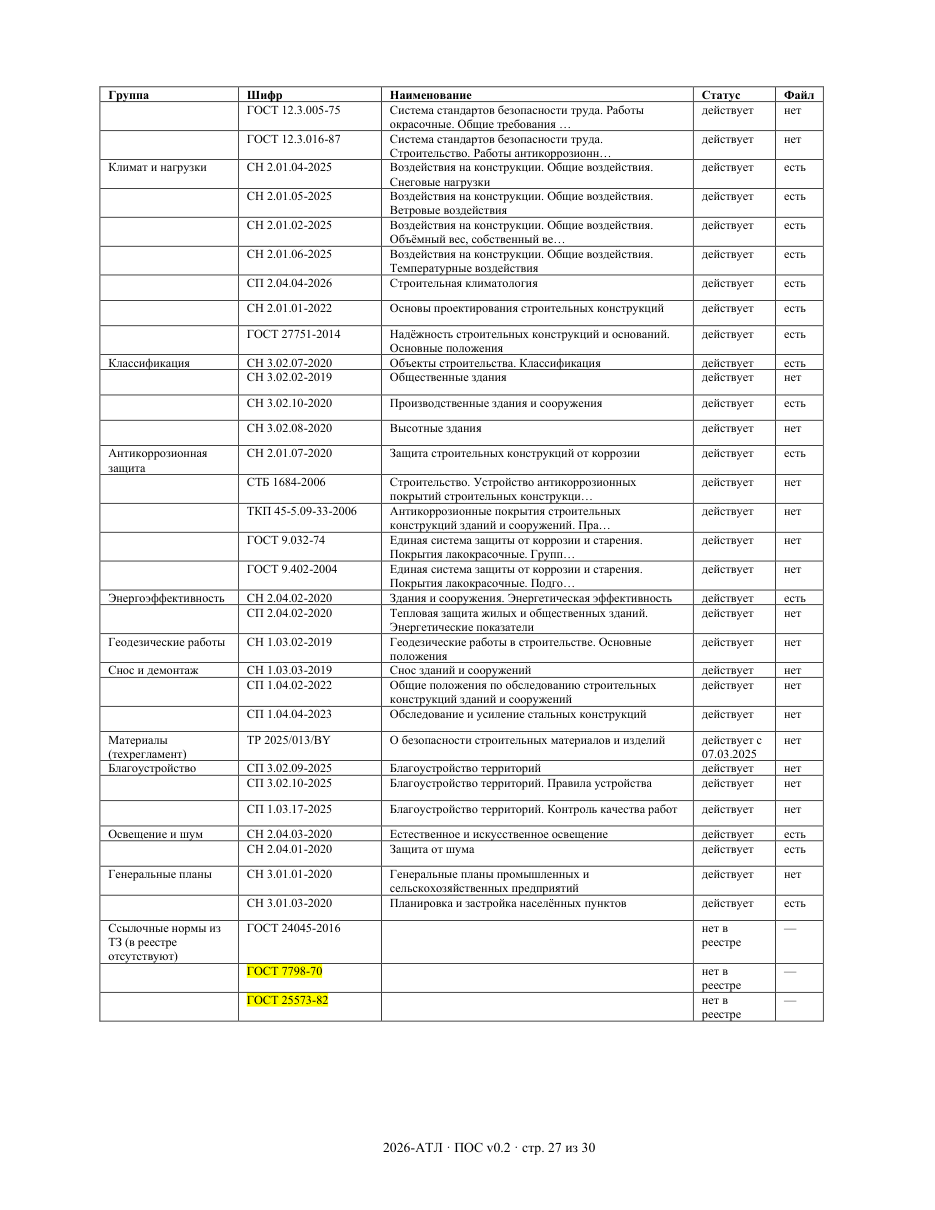
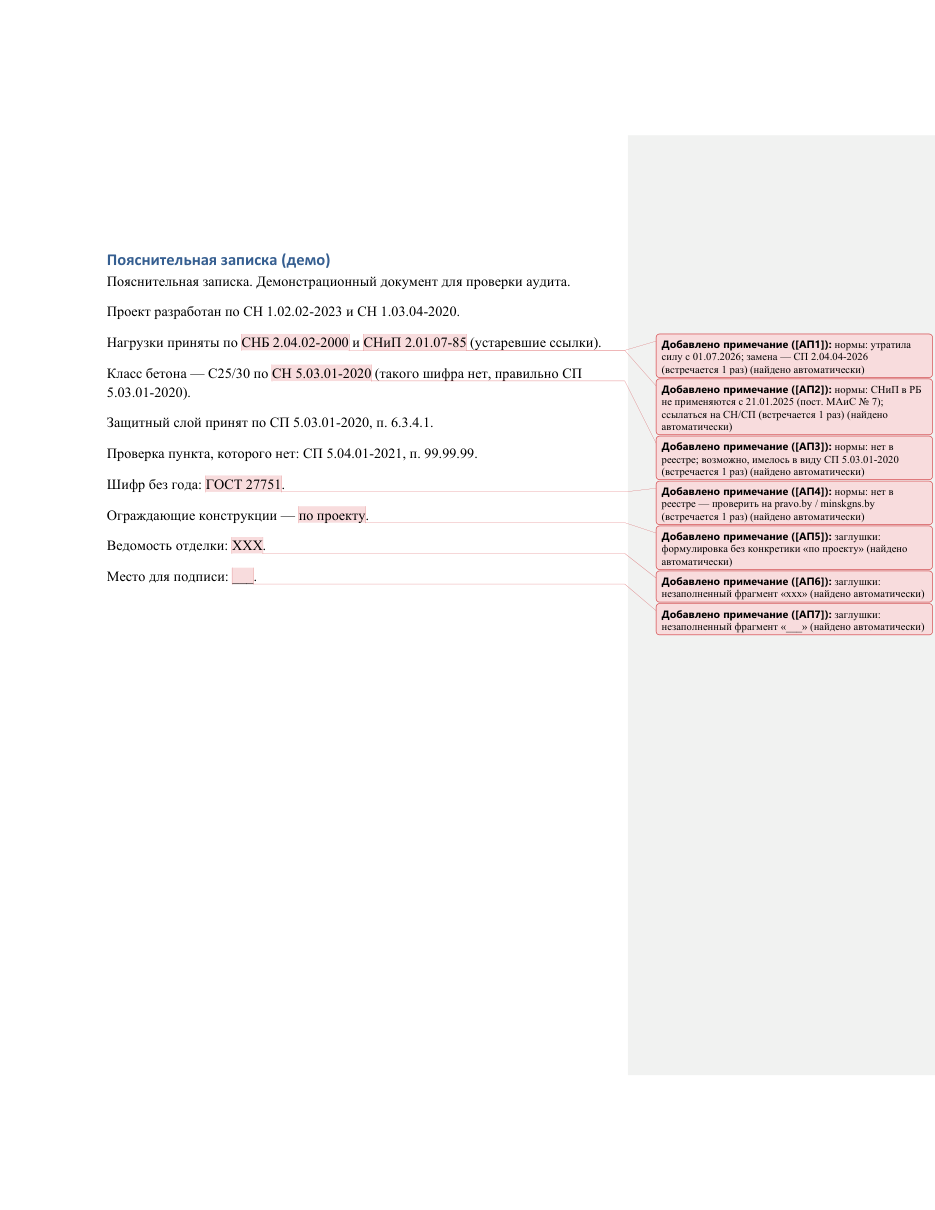
fix(landing): снимки отчёта и разметки из текущего демо-прогона
- report-page.png / report-page-2.png: оценка 7,0, счётчики 2 / 5 / 1,
  путь C:\Users\Public\Projects\ATLAS-TZ — без личного каталога
- marked-page.png: демо-ПЗ с 7 примечаниями Word (ExportAsFixedFormat, markup)
  вместо страницы реального проекта 2026-АТЛ
- tools/render-report-png.py: прогон → PDF → PNG; размеченный DOCX → PDF → PNG
- landing: размеры кадров 935 × 1210 в разметке; docs/TOOLS.md — как пересобрать

Closes #35

Changed region(s): [[0.093, 0.0612, 1.0, 0.8562], [0.2481, 0.795, 0.3722, 0.8562], [0.093, 0.0612, 0.1861, 0.0917]]

diff --git a/app/ui/landing.html b/app/ui/landing.html
@@ -142,7 +142,7 @@
         </ul>
       </div>
       <div class="span-6 start-7">
-        <div class="panel"><img src="assets/img/report-page-2.png" width="950" height="1250"
+        <div class="panel"><img src="assets/img/report-page-2.png" width="935" height="1210"
              alt="Вторая страница отчёта: перечень документов и раздел разметки" loading="lazy"></div>
       </div>
     </div>
@@ -163,7 +163,7 @@
         </ul>
       </div>
       <div class="span-6 start-7">
-        <div class="panel"><img src="assets/img/report-page.png" width="950" height="1250"
+        <div class="panel"><img src="assets/img/report-page.png" width="935" height="1210"
              alt="Отчёт: сводка с оценкой, динамика прогонов, таблица замечаний" loading="lazy"></div>
       </div>
     </div>
@@ -183,7 +183,7 @@
         </ul>
       </div>
       <div class="span-6 start-7">
-        <div class="panel"><img src="assets/img/marked-page.png" width="950" height="1250"
+        <div class="panel"><img src="assets/img/marked-page.png" width="935" height="1210"
              alt="Страница приложения А: шифры ГОСТ 7798-70 и ГОСТ 25573-82 подсвечены жёлтым" loading="lazy"></div>
       </div>
     </div>
@@ -244,6 +244,7 @@
 <script type="module" src="assets/layout/layout.js"></script>
 </body>
 </html>
+
 
 
 

diff --git a/tools/render-report-png.py b/tools/render-report-png.py
@@ -1,0 +1,119 @@
+"""Пересборка снимков отчёта для лендинга из текущего прогона.
+
+Прогон аудита → PDF → PNG первой и второй страницы; размеченный DOCX → PDF с примечаниями
+(Word, `wdExportDocumentWithMarkup`) → PNG. Так кадры на лендинге не расходятся с демо.
+
+Запуск (нужны Word и сервер на 8765):
+
+    uv run --with pymupdf python tools/render-report-png.py \
+        --project C:/Users/Public/Projects/ATLAS-TZ --out app/ui/assets/img
+"""
+
+from __future__ import annotations
+
+import argparse
+import json
+import subprocess
+import tempfile
+import time
+import urllib.request
+import zipfile
+from pathlib import Path
+
+import pymupdf
+
+PAGE_WIDTH = 935  # ширина кадров на лендинге (Letter, 1210 по высоте)
+
+WORD_EXPORT = r"""
+$ErrorActionPreference = "Stop"
+$docx = $args[0]
+$pdf = $args[1]
+$word = New-Object -ComObject Word.Application
+$word.Visible = $false
+try {
+  $doc = $word.Documents.Open($docx, $false, $true)
+  # 17 = PDF, 0 = print quality, 0 = all document, 7 = document with markup (comments)
+  $doc.ExportAsFixedFormat($pdf, 17, $false, 0, 0, 1, 1, 7)
+  $doc.Close(0)
+} finally {
+  $word.Quit()
+}
+"""
+
+
+def post(base: str, path: str, payload: dict) -> dict:
+    req = urllib.request.Request(base + path, data=json.dumps(payload).encode("utf-8"),
+                                 headers={"Content-Type": "application/json"})
+    return json.loads(urllib.request.urlopen(req, timeout=60).read())
+
+
+def get(base: str, path: str, timeout: int = 300) -> bytes:
+    return urllib.request.urlopen(base + path, timeout=timeout).read()
+
+
+def run_audit(base: str, project: Path) -> str:
+    job = post(base, "/api/audit", {"path": str(project), "include_text": False})["job"]
+    for _ in range(180):
+        data = json.loads(get(base, f"/api/audit/{job}", timeout=30))
+        if data["state"] in ("done", "error"):
+            if data["state"] == "error":
+                raise SystemExit(f"аудит упал: {data.get('error')}")
+            return job
+        time.sleep(0.4)
+    raise SystemExit("аудит не завершился за 72 с")
+
+
+def export_marked(docx: Path, pdf: Path) -> None:
+    with tempfile.TemporaryDirectory() as td:
+        script = Path(td) / "export.ps1"
+        script.write_text(WORD_EXPORT, encoding="utf-8")
+        subprocess.run(["powershell", "-NoProfile", "-ExecutionPolicy", "Bypass",
+                        "-File", str(script), str(docx), str(pdf)],
+                       check=True, capture_output=True, timeout=180)
+
+
+def render(pdf: Path, page_index: int, out: Path) -> tuple[int, int]:
+    doc = pymupdf.open(pdf)
+    page = doc[page_index]
+    zoom = PAGE_WIDTH / page.rect.width
+    pix = page.get_pixmap(matrix=pymupdf.Matrix(zoom, zoom), alpha=False)
+    pix.save(out)
+    return pix.width, pix.height
+
+
+def main() -> None:
+    parser = argparse.ArgumentParser()
+    parser.add_argument("--base", default="http://127.0.0.1:8765")
+    parser.add_argument("--project", default="samples/demo-project")
+    parser.add_argument("--out", default="app/ui/assets/img")
+    args = parser.parse_args()
+
+    project = Path(args.project).resolve()
+    out = Path(args.out).resolve()
+    out.mkdir(parents=True, exist_ok=True)
+
+    job = run_audit(args.base, project)
+    print("job", job)
+
+    with tempfile.TemporaryDirectory() as td:
+        tmp = Path(td)
+        pdf = tmp / "report.pdf"
+        pdf.write_bytes(get(args.base, f"/api/report/{job}.pdf"))
+        for index, name in ((0, "report-page.png"), (1, "report-page-2.png")):
+            w, h = render(pdf, index, out / name)
+            print(name, w, h)
+
+        archive = tmp / "marked.zip"
+        archive.write_bytes(get(args.base, f"/api/marked/{job}.zip"))
+        with zipfile.ZipFile(archive) as zf:
+            docx_name = next(n for n in zf.namelist() if n.lower().endswith(".docx"))
+            marked_docx = tmp / "marked.docx"
+            marked_docx.write_bytes(zf.read(docx_name))
+        marked_pdf = tmp / "marked.pdf"
+        export_marked(marked_docx, marked_pdf)
+        w, h = render(marked_pdf, 0, out / "marked-page.png")
+        print("marked-page.png", w, h)
+
+
+if __name__ == "__main__":
+    main()

diff --git a/docs/TOOLS.md b/docs/TOOLS.md
@@ -57,6 +57,21 @@ powershell -ExecutionPolicy Bypass -File tools/glyphfield.ps1 -Action stop
 
 **Что можно взять позже:** его проверку печати (print check) и генератор мокапов — задачи в issues.
 
+## Снимки отчёта для лендинга
+
+Кадры отчёта и разметки пересобираются из текущего прогона, чтобы не расходиться с демо:
+
+```powershell
+uv run --with pymupdf python tools/render-report-png.py `
+    --project C:/Users/Public/Projects/ATLAS-TZ --out app/ui/assets/img
+```
+
+- прогон → `/api/report/{job}.pdf` → `report-page.png` и `report-page-2.png` (935 × 1210);
+- `/api/marked/{job}.zip` → Word, `ExportAsFixedFormat` с `wdExportDocumentWithMarkup` →
+  `marked-page.png` (примечания видны);
+- проект запускать из нейтральной папки (`C:\Users\Public\Projects\ATLAS-TZ`), иначе личный путь
+  попадёт в снимок; требует установленного Word.
+
 ## Итог
 
 - Логотип и знак — наши (штамп с буквой П), проверены в системе бренда Glyphfield.
